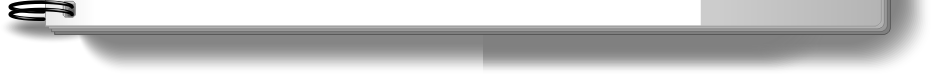
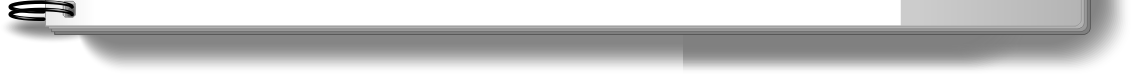
resize backgound to zoom out 200px

diff --git a/assets/css/styles.css b/assets/css/styles.css
@@ -35,7 +35,7 @@ div.page-footer {
   justify-content: space-between;
 
   position: absolute;
-  width: 543px;
+  width: 743px;
   bottom: -10px;
 
   opacity: 50%;
@@ -125,7 +125,7 @@ body {
 
 .container {
   margin: auto;
-  width: 932px;
+  width: 1132px;
 }
 
 .menu {
@@ -144,7 +144,7 @@ body {
 }
 
 .giscus {
-  width: 810px;
+  width: 1010px;
   background: white;
   border-radius: 4px;
   padding: 20px 20px 20px 20px;
@@ -420,7 +420,7 @@ th:first-child {
   width: 165px;
   word-wrap: break-word;
   /* top: 131px; */
-  left: 76%;
+  left: 80%;
   top: 0px;
 }
 
@@ -658,7 +658,7 @@ ol.content-toc li a {
 #error {
   display: none;
   position: absolute;
-  padding-left: 280px;
+  left: 480px;
   top: 200px;
   height: 17px;
   font-size: 14px;
